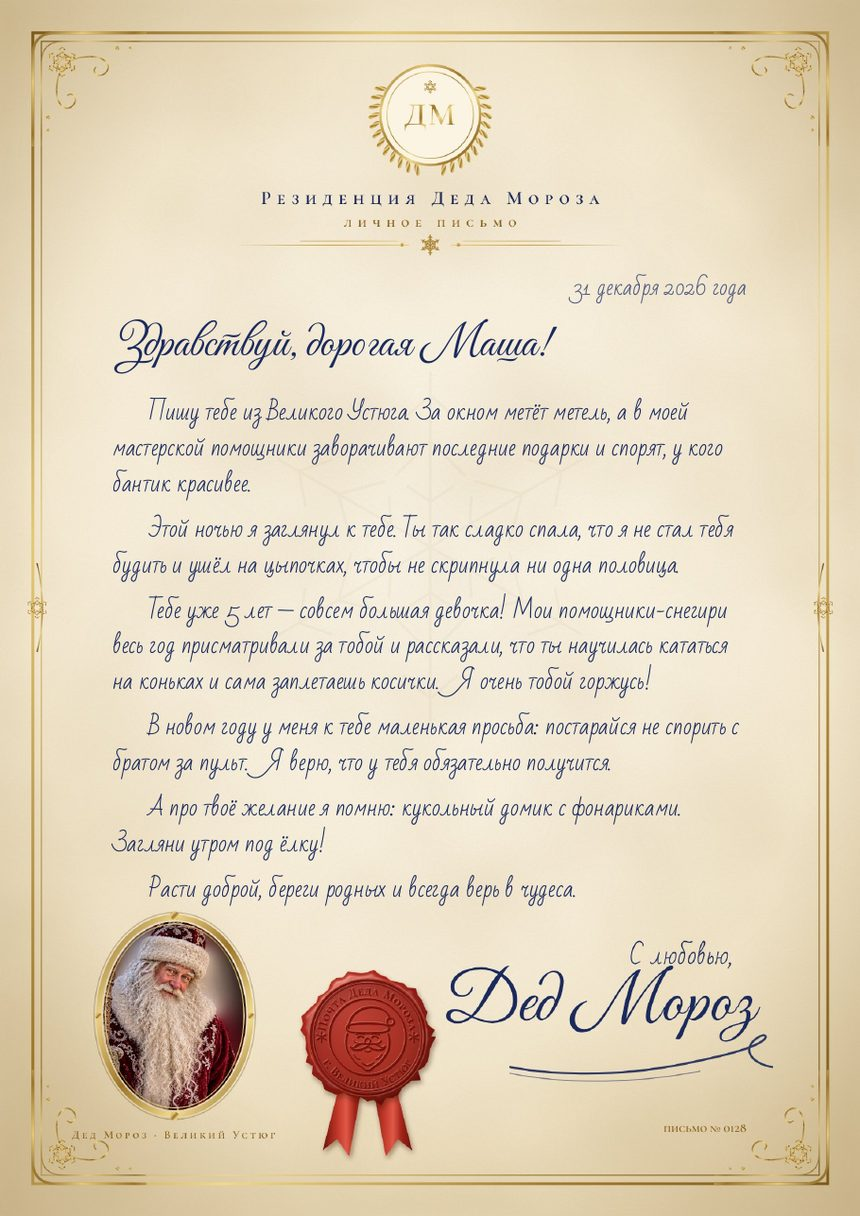
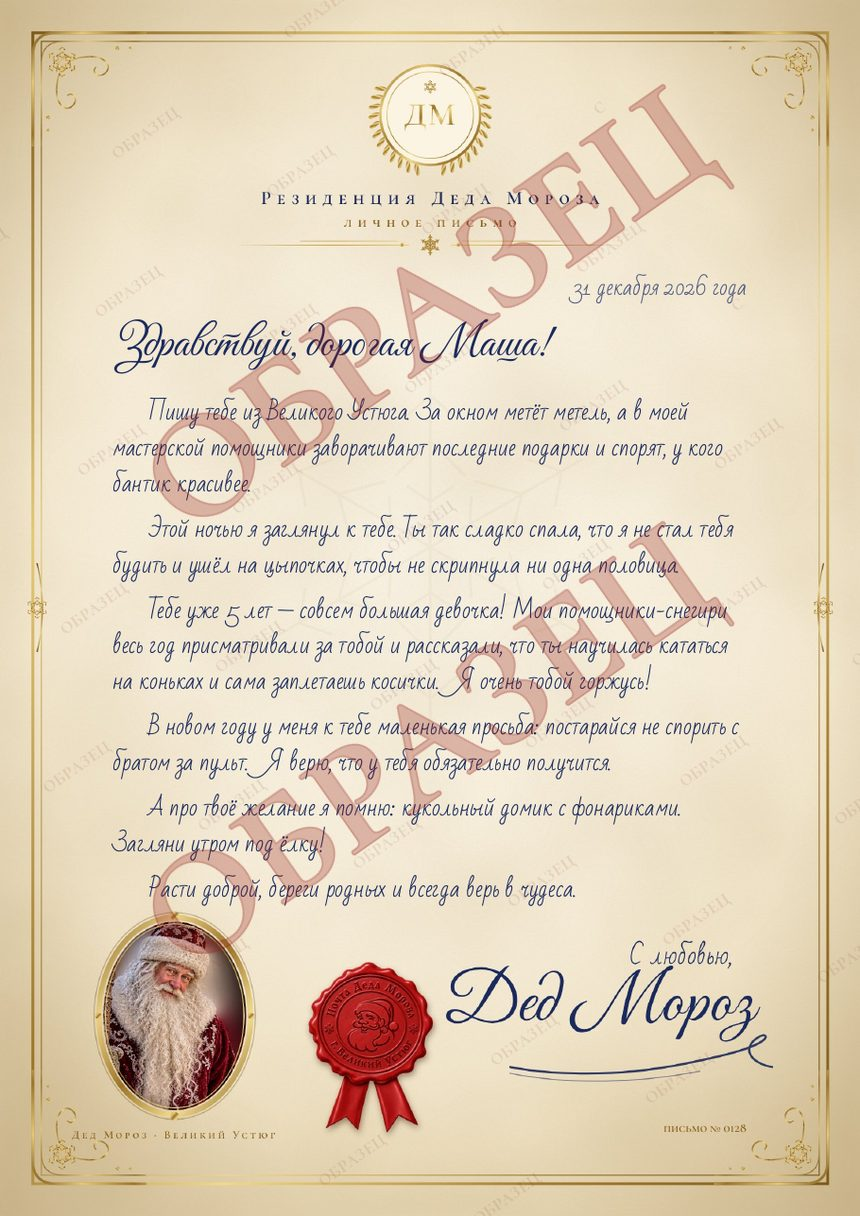
Печать с изображения, приём заказов до 30 декабря, водяной знак на образце, защита от копирования
Claude-Session: https://claude.ai/code/session_01JNVR2FiKkTxyEAXoVmeucw

diff --git a/index.html b/index.html
@@ -4,7 +4,7 @@
 <meta charset="utf-8">
 <meta name="viewport" content="width=device-width, initial-scale=1">
 <meta name="theme-color" content="#0d1836">
-<meta name="description" content="Именное письмо и видео от Деда Мороза: он заходит в комнату вашего ребёнка, пока тот спит. Заказы к Новому году до 28 декабря.">
+<meta name="description" content="Именное письмо и видео от Деда Мороза: он заходит в комнату вашего ребёнка, пока тот спит. Заказы к Новому году до 30 декабря.">
 <title>Дед Мороз заходил</title>
 <link rel="preconnect" href="https://fonts.googleapis.com">
 <link rel="preconnect" href="https://fonts.gstatic.com" crossorigin>
@@ -315,6 +315,13 @@ footer{border-top:1px solid var(--line);padding:36px 0 48px;background:linear-gr
   .hero-art{flex-direction:row;align-items:flex-end;justify-content:center;gap:18px}
   .hero-letter{flex:1 1 0;width:auto;max-width:320px;margin:0 0 40px}
 }
+
+/* защита материалов от копирования */
+body{-webkit-user-select:none;user-select:none;-webkit-touch-callout:none}
+input,textarea,select,[contenteditable]{-webkit-user-select:text;user-select:text;-webkit-touch-callout:default}
+img,svg,canvas{-webkit-user-drag:none;user-drag:none}
+.sample-pic{position:relative}
+.sample-pic::after{content:"";position:absolute;inset:0}
 </style>
 </head>
 <body>
@@ -352,7 +359,7 @@ footer{border-top:1px solid var(--line);padding:36px 0 48px;background:linear-gr
       <ul class="facts">
         <li>Письмо готово за час</li>
         <li>Видео за 24 часа</li>
-        <li>Правки до 30 декабря</li>
+        <li>Правки до 31 декабря</li>
       </ul>
     </div>
     <div class="hero-art">
@@ -385,7 +392,7 @@ footer{border-top:1px solid var(--line);padding:36px 0 48px;background:linear-gr
     <div class="ny-left">
       <h2>До Нового года осталось</h2>
       <p class="lead" id="nyLead">До 1 января по московскому времени.</p>
-      <p class="note" id="nyDeadline">Заказы на этот Новый год принимаем до 28 декабря.</p>
+      <p class="note" id="nyDeadline">Заказы на этот Новый год принимаем до 30 декабря.</p>
       <a class="btn btn-main" href="#order">Заказать письмо и видео</a>
     </div>
     <div class="timer-wrap">
@@ -442,7 +449,7 @@ footer{border-top:1px solid var(--line);padding:36px 0 48px;background:linear-gr
 <section class="sample" id="sample">
   <div class="wrap sample-grid">
     <figure class="sample-pic">
-      <img src="letter/sample.jpg" width="860" height="1217" alt="Образец письма от Деда Мороза для девочки Маши: шапка резиденции с гербом, рукописный текст, портрет Деда Мороза в золотом медальоне, подпись и сургучная печать" loading="lazy" decoding="async">
+      <img src="letter/sample.jpg" width="860" height="1217" draggable="false" alt="Образец письма от Деда Мороза для девочки Маши: шапка резиденции с гербом, рукописный текст, портрет Деда Мороза в золотом медальоне, подпись и сургучная печать" loading="lazy" decoding="async">
     </figure>
     <div class="sample-text">
       <h2>Так выглядит письмо</h2>
@@ -591,8 +598,8 @@ footer{border-top:1px solid var(--line);padding:36px 0 48px;background:linear-gr
   <div class="wrap">
     <h2>Три обещания</h2>
     <div class="promises">
-      <div><h3>Успеем к празднику</h3><p>Принимаем заказы до 28 декабря включительно. Всё, что заказано в срок, будет готово до боя курантов.</p></div>
-      <div><h3>Исправим, если не то</h3><p>Опечатка в имени или не та игрушка? Одна правка бесплатно, вносим до 30 декабря.</p></div>
+      <div><h3>Успеем к празднику</h3><p>Принимаем заказы до 30 декабря включительно. Всё, что заказано в срок, будет готово до боя курантов.</p></div>
+      <div><h3>Исправим, если не то</h3><p>Опечатка в имени или не та игрушка? Одна правка бесплатно, вносим до 31 декабря.</p></div>
       <div><h3>Бережно с фото</h3><p>Снимок ребёнка видит только монтажёр. Через 7 дней после выдачи заказа фото удаляется.</p></div>
     </div>
   </div>
@@ -615,7 +622,7 @@ footer{border-top:1px solid var(--line);padding:36px 0 48px;background:linear-gr
   <div class="wrap">
     <h2>Что обычно спрашивают</h2>
     <div class="faq">
-      <details><summary>Как быстро придёт заказ?</summary><p>Письмо в течение часа после оплаты, видео в течение 24 часов. В последнюю неделю декабря сроки те же, но заказы принимаем только до 28 числа.</p></details>
+      <details><summary>Как быстро придёт заказ?</summary><p>Письмо в течение часа после оплаты, видео в течение 24 часов. В последнюю неделю декабря сроки те же, но заказы принимаем только до 30 числа.</p></details>
       <details><summary>Обязательно ли показывать лицо ребёнка?</summary><p>Нет. Подойдёт кадр со спины, под одеялом или просто кровать в детской. Главное, чтобы ребёнок узнал свою комнату.</p></details>
       <details><summary>Как сделано видео?</summary><p>Образ и голос Деда Мороза записаны с актёром. В кадр с вашей комнатой он попадает при монтаже с помощью компьютерной графики. Домой к вам никто не приходит.</p></details>
       <details><summary>Как показать это ребёнку?</summary><p>Письмо распечатайте и положите под ёлку, на подоконник или в морозилку. Видео покажите утром на телефоне: «Смотри, что ночью записала камера».</p></details>
@@ -637,7 +644,7 @@ footer{border-top:1px solid var(--line);padding:36px 0 48px;background:linear-gr
 
 <footer id="contacts">
   <div class="wrap foot">
-    <div><b style="color:var(--frost)">Дед Мороз заходил</b><span>Письма и видео от Деда Мороза для детей</span><span>Заказы на этот Новый год до 28 декабря</span></div>
+    <div><b style="color:var(--frost)">Дед Мороз заходил</b><span>Письма и видео от Деда Мороза для детей</span><span>Заказы на этот Новый год до 30 декабря</span></div>
     <div><b style="color:var(--frost)">Связаться</b><span>Telegram: укажите ваш контакт</span><span>Почта: укажите вашу почту</span></div>
     <div id="docs"><b style="color:var(--frost)">Документы</b><span>Публичная оферта</span><span>Политика конфиденциальности</span><span>Согласие на обработку персональных данных</span></div>
   </div>
@@ -957,8 +964,8 @@ footer{border-top:1px solid var(--line);padding:36px 0 48px;background:linear-gr
     setTxt(ny.dl, plural(D, ['день','дня','дней'])); setTxt(ny.hl, plural(Hh, ['час','часа','часов'])); setTxt(ny.ml, plural(Mm, ['минута','минуты','минут'])); setTxt(ny.sl, plural(Ss, ['секунда','секунды','секунд']));
     setTxt(ny.chip, greet ? 'С Новым годом!' : D + ' д ' + p2(Hh) + ':' + p2(Mm) + ':' + p2(Ss));
     setTxt(ny.lead, greet ? 'С Новым годом! Принимаем заказы на следующий праздник с ноября.' : 'До 1 января ' + (y + 1) + ' года по московскому времени.');
-    var end = Date.UTC(y, 11, 28, 23, 59, 59) - MSK, left = Math.ceil((end - now)/86400000);
-    if(!greet && left > 0 && m.getUTCMonth() >= 10) setTxt(ny.dead, 'Заказы на этот Новый год принимаем до 28 декабря. Осталось ' + left + ' ' + plural(left, ['день','дня','дней']) + '.');
+    var end = Date.UTC(y, 11, 30, 23, 59, 59) - MSK, left = Math.ceil((end - now)/86400000);
+    if(!greet && left > 0 && m.getUTCMonth() >= 10) setTxt(ny.dead, 'Заказы на этот Новый год принимаем до 30 декабря. Осталось ' + left + ' ' + plural(left, ['день','дня','дней']) + '.');
     else if(!greet && m.getUTCMonth() === 11 && left <= 0) setTxt(ny.dead, 'Приём заказов на этот Новый год закрыт. Заказы на следующий откроем в ноябре.');
     setTimeout(nyTick, 1000 - (Date.now() % 1000) + 5);
   }
@@ -1496,6 +1503,21 @@ footer{border-top:1px solid var(--line);padding:36px 0 48px;background:linear-gr
   }
   document.addEventListener('visibilitychange', function(){ if(!document.hidden){ dirty = true; wake(); } });
   wake();
+})();
+</script>
+<script>
+/* защита материалов: без контекстного меню, копирования, перетаскивания и сохранения страницы (поля формы работают как обычно) */
+(function(){
+  function field(t){ return t && t.closest && t.closest('input,textarea,select,[contenteditable]'); }
+  ['contextmenu','copy','cut','dragstart','selectstart'].forEach(function(ev){
+    document.addEventListener(ev, function(e){ if(!field(e.target)) e.preventDefault(); }, {capture:true});
+  });
+  document.addEventListener('keydown', function(e){
+    var k = (e.key || '').toLowerCase(), mod = e.ctrlKey || e.metaKey;
+    if(e.key === 'F12' || (mod && e.shiftKey && 'ijc'.indexOf(k) > -1) || (mod && (k === 'u' || k === 's' || k === 'p'))) { e.preventDefault(); return; }
+    if(mod && (k === 'c' || k === 'x' || k === 'a') && !field(e.target)) e.preventDefault();
+  }, {capture:true});
+  document.querySelectorAll('img').forEach(function(i){ i.setAttribute('draggable','false'); });
 })();
 </script>
 </body>

diff --git a/letter/bg.html b/letter/bg.html
@@ -47,7 +47,7 @@ html,body{width:794px;height:1123px;overflow:hidden;background:#efe3c8}
 .sig-flourish{right:74px;top:954px;width:250px;height:46px}
 
 /* печать */
-.seal{left:264px;top:884px;width:150px;height:187.5px}
+.seal{left:268px;top:888px;width:146px;height:auto;filter:drop-shadow(1.5px 3px 3px rgba(58,21,5,.45))}
 </style>
 </head>
 <body>
@@ -186,92 +186,7 @@ html,body{width:794px;height:1123px;overflow:hidden;background:#efe3c8}
   </svg>
 
   <!-- сургучная печать «Почта Деда Мороза · г. Великий Устюг» -->
-  <svg class="abs seal" viewBox="0 0 160 200" aria-hidden="true">
-    <defs>
-      <linearGradient id="rib" x1="0" y1="0" x2="1" y2="0">
-        <stop offset="0" stop-color="#6e120c"/><stop offset=".35" stop-color="#c2382a"/>
-        <stop offset=".55" stop-color="#e05a48"/><stop offset=".75" stop-color="#a3241a"/><stop offset="1" stop-color="#6e120c"/>
-      </linearGradient>
-      <radialGradient id="waxg" cx="38%" cy="32%" r="75%">
-        <stop offset="0" stop-color="#d8493b"/><stop offset=".5" stop-color="#a8261b"/><stop offset="1" stop-color="#5a0c07"/>
-      </radialGradient>
-      <radialGradient id="waxIn" cx="60%" cy="65%" r="70%">
-        <stop offset="0" stop-color="#b4301f"/><stop offset=".7" stop-color="#951f15"/><stop offset="1" stop-color="#6a100a"/>
-      </radialGradient>
-      <filter id="emboss" x="-20%" y="-20%" width="140%" height="140%">
-        <feGaussianBlur in="SourceAlpha" stdDeviation="2.2" result="b"/>
-        <feSpecularLighting in="b" surfaceScale="4" specularConstant=".75" specularExponent="16" lighting-color="#ffd9c8" result="s">
-          <fePointLight x="30" y="-20" z="80"/>
-        </feSpecularLighting>
-        <feComposite in="s" in2="SourceAlpha" operator="in" result="s2"/>
-        <feComposite in="SourceGraphic" in2="s2" operator="arithmetic" k1="0" k2="1" k3=".5" k4="0"/>
-      </filter>
-      <filter id="shadow" x="-30%" y="-30%" width="160%" height="160%">
-        <feDropShadow dx="1.5" dy="3" stdDeviation="2.5" flood-color="#3a1505" flood-opacity=".45"/>
-      </filter>
-      <path id="arcTop" d="M -42 0 A 42 42 0 0 1 42 0"/>
-      <path id="arcBot" d="M -50.5 0 A 50.5 50.5 0 0 0 50.5 0"/>
-      <!-- оттиск: всё, что выдавлено в сургуче -->
-      <g id="stamp" fill="none" stroke-linecap="round" stroke-linejoin="round">
-        <circle r="56" stroke-width="1.6"/>
-        <circle r="53.2" stroke-width=".7"/>
-        <circle r="37.5" stroke-width="1.3"/>
-        <g stroke-width="1.1">
-          <g transform="translate(-45.5 0)"><path d="M0 -5V5M-4.3 -2.5L4.3 2.5M-4.3 2.5L4.3 -2.5"/></g>
-          <g transform="translate(45.5 0)"><path d="M0 -5V5M-4.3 -2.5L4.3 2.5M-4.3 2.5L4.3 -2.5"/></g>
-        </g>
-        <!-- Дед Мороз -->
-        <g stroke-width="1.35">
-          <!-- шапка -->
-          <path d="M-19 -9 C-18 -22 -6 -31 8 -29 C15 -28 20 -24 22 -18"/>
-          <circle cx="22.5" cy="-15" r="3.6"/>
-          <path d="M-21 -8.5 C-21 -12.5 -14 -13.5 0 -13.5 C14 -13.5 21 -12.5 21 -8.5 C21 -4.5 14 -4 0 -4 C-14 -4 -21 -4.5 -21 -8.5 Z"/>
-          <!-- глаза-улыбки и брови -->
-          <path d="M-10 0.5 Q-7 -2.6 -4 0.5"/><path d="M4 0.5 Q7 -2.6 10 0.5"/>
-          <path d="M-11.5 -2.6 Q-7.5 -4.6 -3.5 -3" stroke-width="1"/><path d="M3.5 -3 Q7.5 -4.6 11.5 -2.6" stroke-width="1"/>
-          <!-- нос и щёки -->
-          <circle cx="0" cy="4.2" r="2.7"/>
-          <path d="M-13.5 3.5 Q-12 6.5 -9 6" stroke-width=".9"/><path d="M13.5 3.5 Q12 6.5 9 6" stroke-width=".9"/>
-          <!-- усы -->
-          <path d="M-0.5 7.6 C-4 5.6 -9 6 -12.5 9.8 C-14 11.4 -16.5 11 -17 9.4 C-15 14.6 -7 13.6 -0.5 9.4"/>
-          <path d="M0.5 7.6 C4 5.6 9 6 12.5 9.8 C14 11.4 16.5 11 17 9.4 C15 14.6 7 13.6 0.5 9.4"/>
-          <!-- рот -->
-          <path d="M-3 13.4 Q0 15.8 3 13.4" stroke-width="1"/>
-          <!-- борода -->
-          <path d="M-20 -3 C-23 6 -21 14 -17 19 C-14 24 -10 27.5 -6 29.5 C-4 32 -1.5 33 0 33 C1.5 33 4 32 6 29.5 C10 27.5 14 24 17 19 C21 14 23 6 20 -3"/>
-          <path d="M-14 17 Q-12 21 -8 22 M-6 25 Q-3 28 0 28 Q3 28 6 25 M14 17 Q12 21 8 22" stroke-width=".85"/>
-        </g>
-      </g>
-    </defs>
-    <g filter="url(#shadow)">
-      <path d="M58 104 L36 190 L50 179 L62 196 L78 108 Z" fill="url(#rib)"/>
-      <path d="M102 104 L124 190 L110 179 L98 196 L82 108 Z" fill="url(#rib)"/>
-    </g>
-    <g filter="url(#shadow)">
-      <path id="blob" fill="url(#waxg)" filter="url(#emboss)"/>
-    </g>
-    <g transform="translate(80 78)">
-      <!-- поле печати чуть утоплено -->
-      <circle r="57.5" fill="url(#waxIn)" opacity=".55"/>
-      <circle r="58.6" fill="none" stroke="#ff9d86" stroke-opacity=".28" stroke-width="1"/>
-      <!-- рельеф: тень снизу-справа, блик сверху-слева, сам оттиск -->
-      <use href="#stamp" transform="translate(.7 .9)" stroke="#4a0804" fill="#4a0804" opacity=".75"/>
-      <use href="#stamp" transform="translate(-.6 -.6)" stroke="#ffb3a0" fill="#ffb3a0" opacity=".4"/>
-      <use href="#stamp" stroke="#7e150d" fill="#7e150d"/>
-      <g transform="translate(.7 .9)" fill="#4a0804" opacity=".75" font-family="Cormorant SC" font-weight="600" font-size="12.2" letter-spacing=".6">
-        <text><textPath href="#arcTop" startOffset="50%" text-anchor="middle">Почта Деда Мороза</textPath></text>
-        <text><textPath href="#arcBot" startOffset="50%" text-anchor="middle">г. Великий Устюг</textPath></text>
-      </g>
-      <g transform="translate(-.6 -.6)" fill="#ffb3a0" opacity=".4" font-family="Cormorant SC" font-weight="600" font-size="12.2" letter-spacing=".6">
-        <text><textPath href="#arcTop" startOffset="50%" text-anchor="middle">Почта Деда Мороза</textPath></text>
-        <text><textPath href="#arcBot" startOffset="50%" text-anchor="middle">г. Великий Устюг</textPath></text>
-      </g>
-      <g transform="translate(0 0)" fill="#7e150d" opacity="1" font-family="Cormorant SC" font-weight="600" font-size="12.2" letter-spacing=".6">
-        <text><textPath href="#arcTop" startOffset="50%" text-anchor="middle">Почта Деда Мороза</textPath></text>
-        <text><textPath href="#arcBot" startOffset="50%" text-anchor="middle">г. Великий Устюг</textPath></text>
-      </g>
-    </g>
-  </svg>
+  <img class="abs seal" src="seal.png" alt="">
 </div>
 
 <script>
@@ -290,14 +205,6 @@ html,body{width:794px;height:1123px;overflow:hidden;background:#efe3c8}
       g.appendChild(e);
     }
   }
-  /* неровный край сургуча */
-  var p = '', R = 63, seed = 7;
-  function rnd(){ seed = (seed*9301 + 49297) % 233280; return seed/233280; }
-  for(var k = 0; k <= 64; k++){
-    var t = k/64*Math.PI*2, rr = R + (rnd() - 0.5)*5 + Math.sin(t*6)*2 + (k % 7 === 0 ? 4.5 : 0);
-    p += (k ? ' L ' : 'M ') + (80 + Math.cos(t)*rr).toFixed(2) + ' ' + (78 + Math.sin(t)*rr).toFixed(2);
-  }
-  document.getElementById('blob').setAttribute('d', p + ' Z');
 })();
 </script>
 </body>
